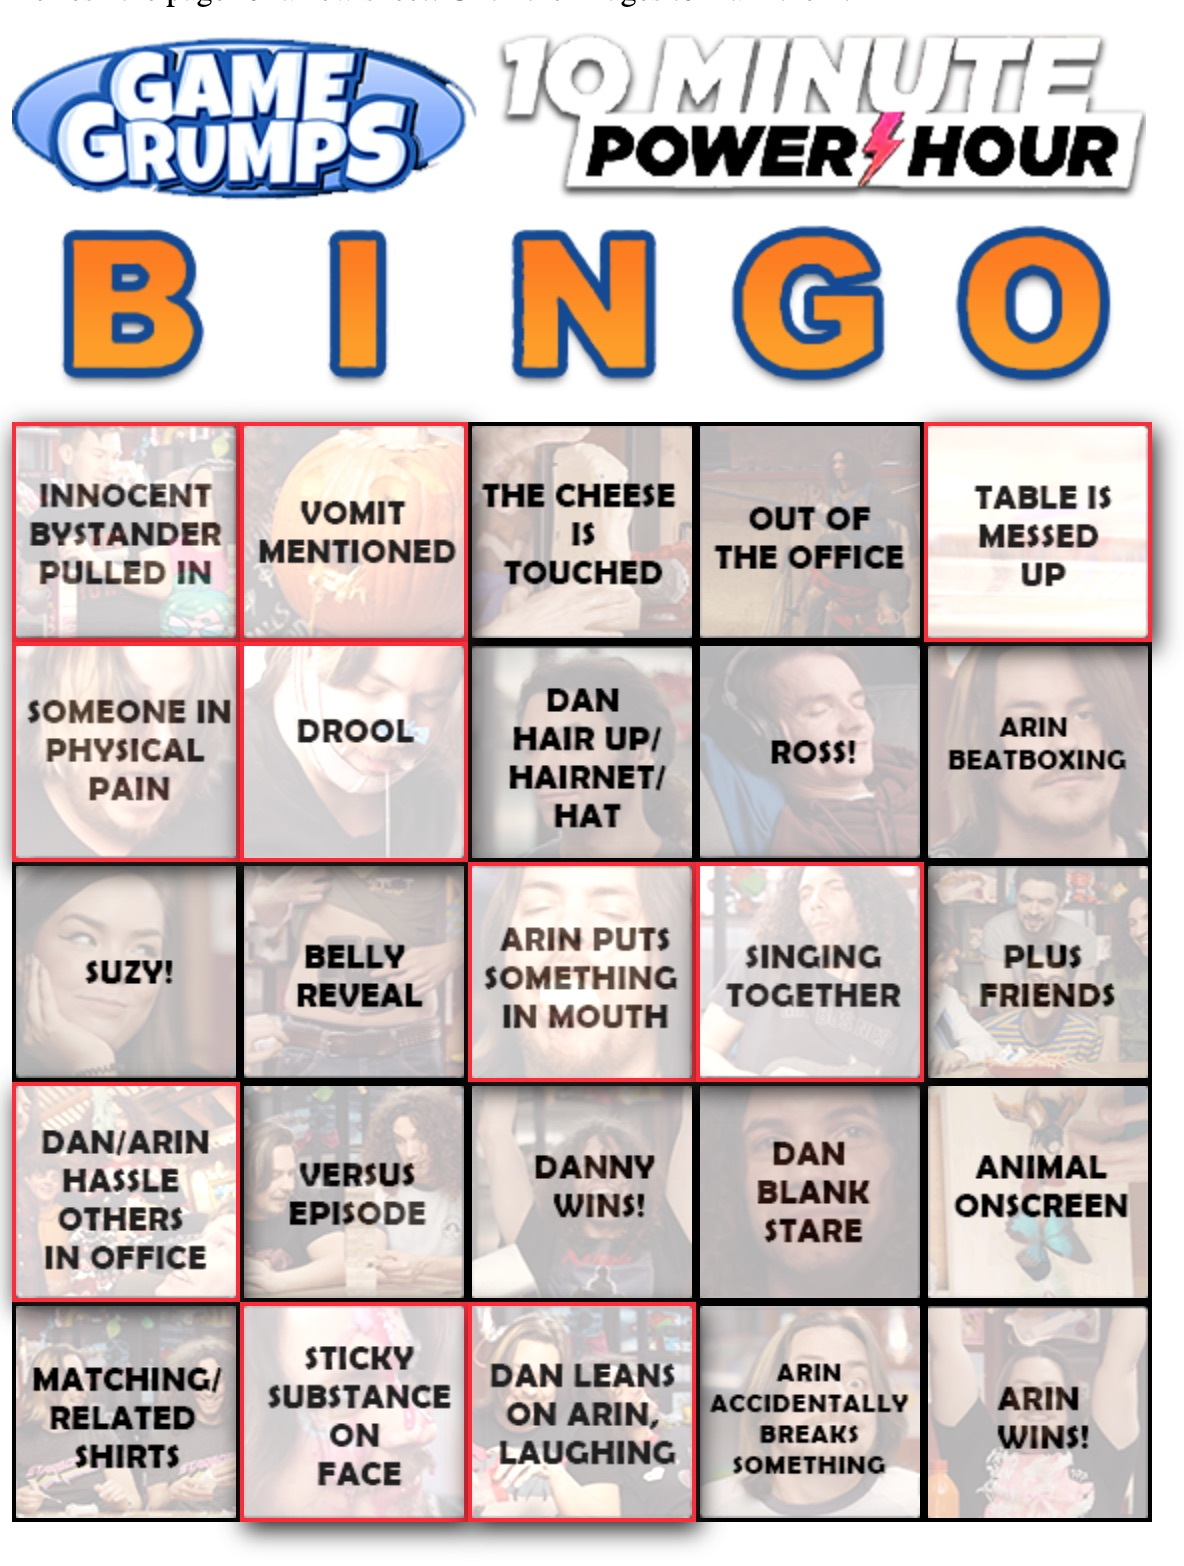
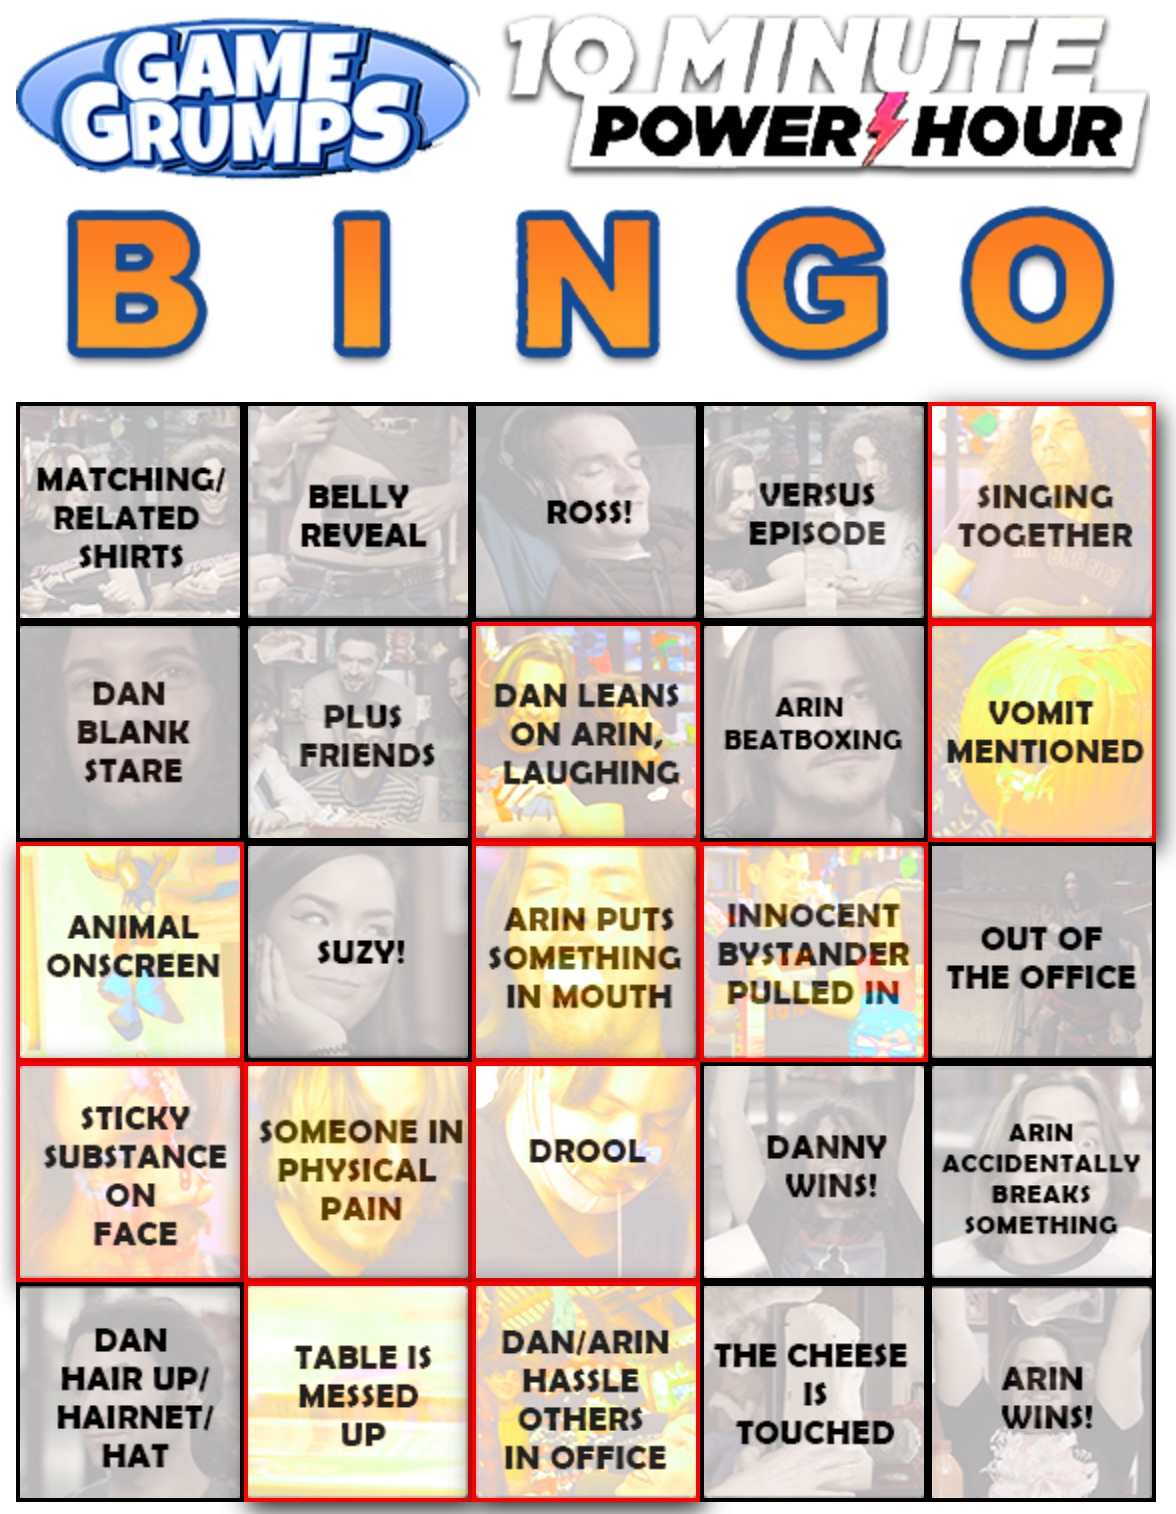
Making selecting more obvious

diff --git a/index.html b/index.html
@@ -16,11 +16,12 @@
       <style>
          .active {
             border: 2px solid red;
-            filter: drop-shadow(2px 4px 6px black) contrast(0.8) brightness(1.2);
+            filter: drop-shadow(2px 4px 6px black) contrast(0.8) brightness(1.2) hue-rotate(30deg) saturate(4);
          }
          
          .inactive {
             border: 2px solid black;
+            filter: saturate(0.5);
          }
 
          tr, td {
